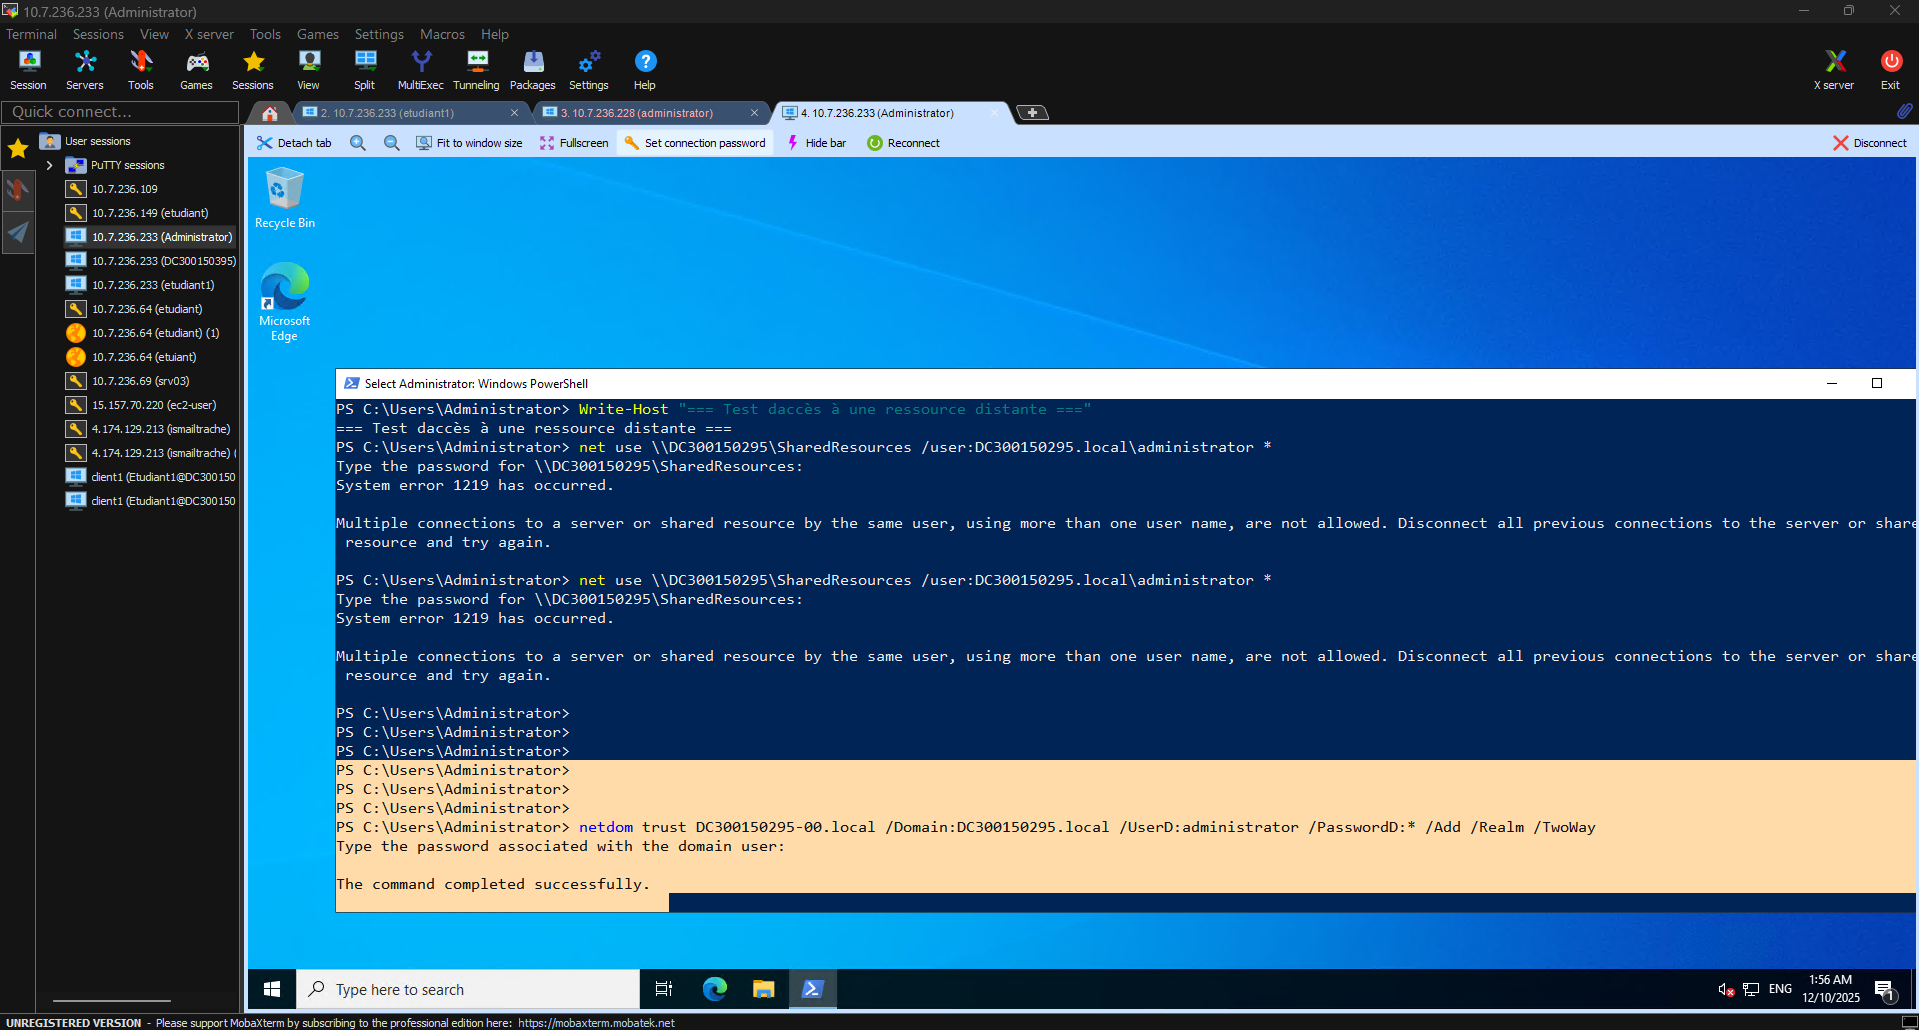
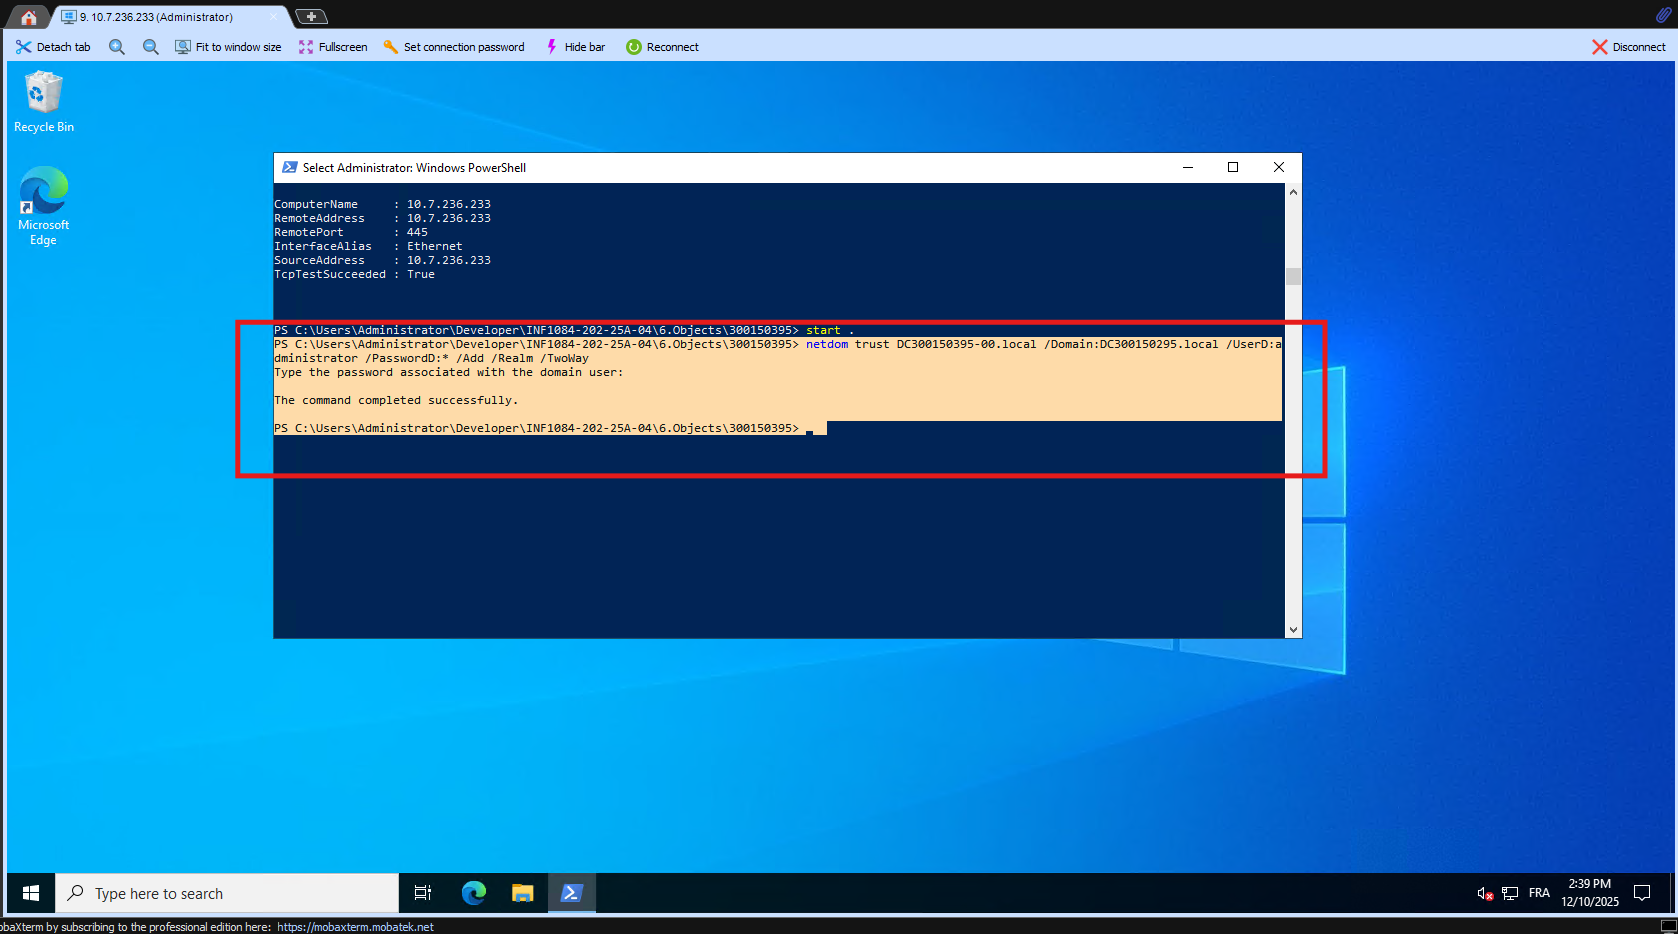
modif dans le script

diff --git a/7.DCs/300150395-300150295/README.md b/7.DCs/300150395-300150295/README.md
@@ -152,6 +152,9 @@ Automatisation OK
 
 #Test Trust reussi
 
+La création du trust bidirectionnel entre les deux forêts a été réalisée via CLI avec la commande netdom trust.
+La commande a été exécutée avec succès le 10 décembre 2025 et le trust est maintenant établi.
+Le script fourni automatise uniquement la vérification et le diagnostic du trust, car la création ne doit pas être relancée.
 
 <img width="1919" height="1014" alt="5A" src="images/6.png"/> 
 
